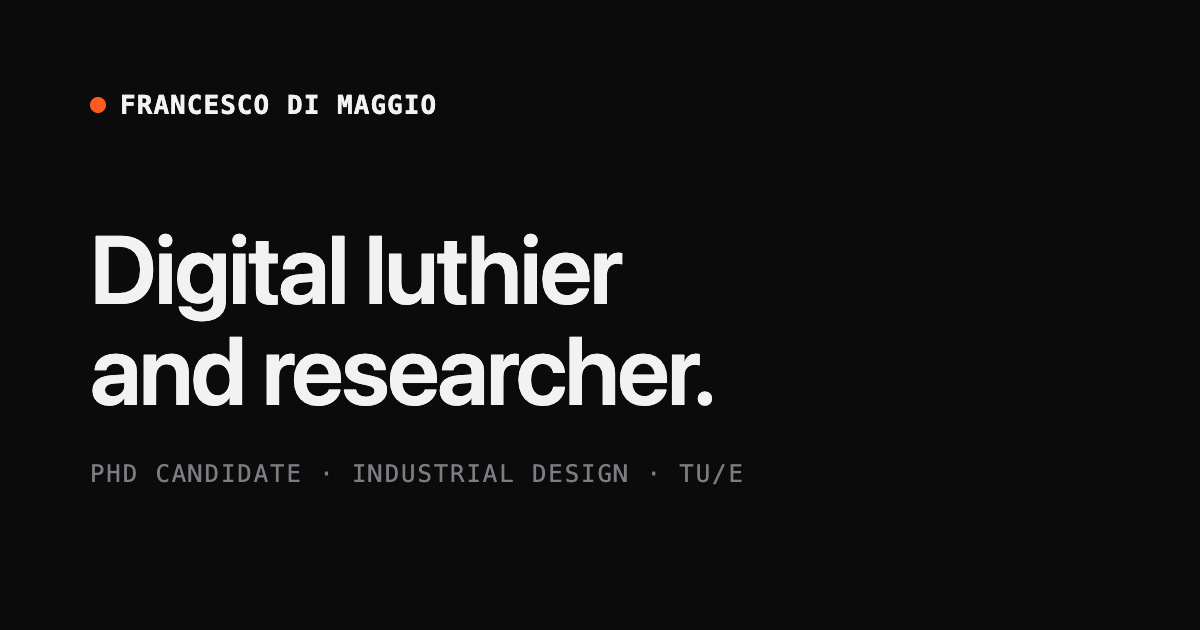
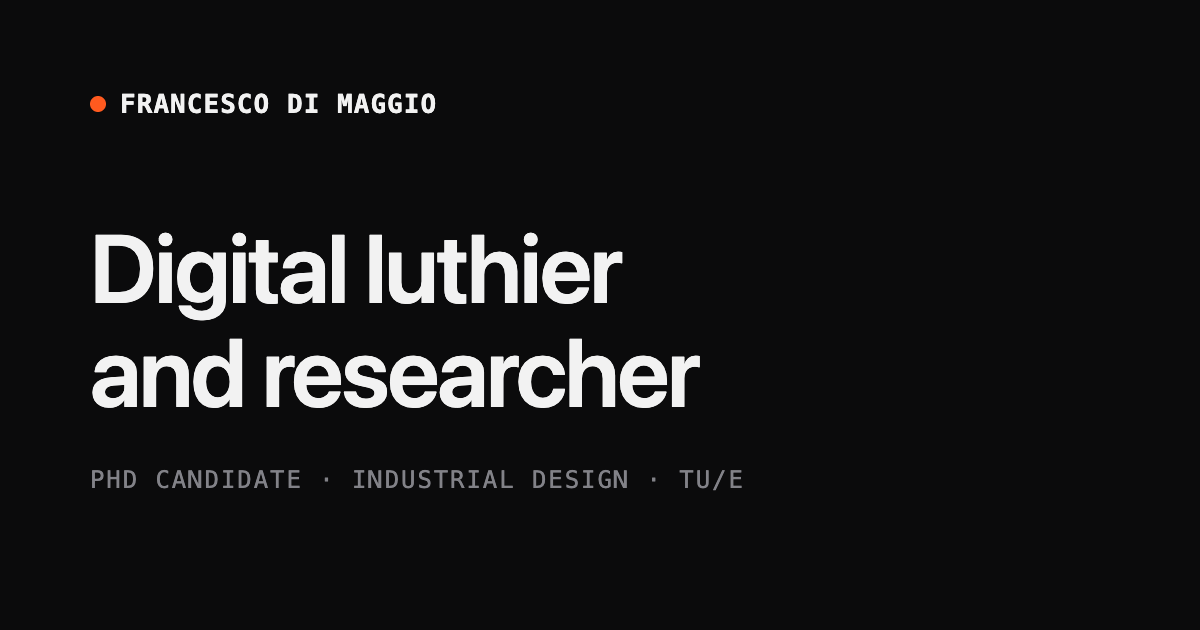
Publications from tsost as one source; list rules, contrast and footer shared with tsost
- PhD papers fetched at build from tsost/publications.json; earlier papers stay in publications.yaml
- Publications grouped by year, one list row per paper, → opens the paper; equal-contribution note as a caption; venues in one format
- Works grouped as Current / Earlier; 4 px between lines in rows, tiles and pager
- Grey text darker in light mode, lighter in dark mode (WCAG AA); short-screen rules removed
- Header dot breathes like the TSOST ripple, still with reduced motion; share image without the full stop
- Footer icons LinkedIn, GitHub, Email with larger tap areas; decorative arrows hidden from screen readers

diff --git a/src/styles/site.css b/src/styles/site.css
@@ -20,7 +20,10 @@ a:hover { text-decoration-color: var(--ink); }
 
 header { display: flex; align-items: center; justify-content: space-between; gap: 12px; height: 28px; }
 .mark { display: flex; align-items: center; gap: 8px; font: 600 13px var(--mono); letter-spacing: 0.04em; text-decoration: none; text-transform: uppercase; white-space: nowrap; }
-.mark::before { content: ""; width: 8px; height: 8px; border-radius: 50%; background: var(--accent); }
+.mark::before { content: ""; width: 8px; height: 8px; border-radius: 50%; background: var(--accent); animation: breathe 3s ease-in-out infinite; }
+/* The dot breathes like the TSOST ripple; still when the visitor asks for less motion. */
+@keyframes breathe { 50% { transform: scale(1.2); opacity: 0.4; } }
+@media (prefers-reduced-motion: reduce) { .mark::before { animation: none; } }
 .end { display: flex; align-items: center; gap: 2px; }
 /* 28 px high in the layout, as on tsost; the tap area reaches 4 px above and below. */
 .icon, #theme { flex: none; width: 32px; height: 36px; margin: -4px 0; display: flex; align-items: center; justify-content: center;
@@ -72,7 +75,7 @@ a.panel:active { opacity: 0.8; }
 a.panel .label { display: block; color: var(--ink); }
 /* Accent only for what is on: current work. */
 a.panel.on .label::before { content: ""; display: inline-block; width: 6px; height: 6px; margin: 0 8px 1px 0; border-radius: 50%; background: var(--accent); }
-a.panel .title { display: block; margin: 2px 0; font-size: 16px; line-height: 22px; font-weight: 600; }
+a.panel .title { display: block; margin: 4px 0; font-size: 16px; line-height: 22px; font-weight: 600; }
 .prose.body { margin-top: 10px; }
 .caption { display: block; font-size: 15px; line-height: 20px; color: var(--dim); }
 .arrow { font: 400 18px/20px var(--mono); color: var(--dim); }
@@ -80,7 +83,7 @@ a.panel .title { display: block; margin: 2px 0; font-size: 16px; line-height: 22
 .list { margin: 0; padding: 0; list-style: none; }
 .list li + li { border-top: 1px solid var(--line); }
 .list .row { display: flex; justify-content: space-between; align-items: center; gap: 16px; min-height: 60px; padding: 12px 0; text-decoration: none; }
-.list .text { flex: 1; display: flex; flex-direction: column; gap: 2px; min-width: 0; }
+.list .text { flex: 1; display: flex; flex-direction: column; gap: 4px; min-width: 0; }
 .list b { font-size: 15px; line-height: 20px; font-weight: 600; text-wrap: balance; }
 .list .sub { font-size: 14px; line-height: 18px; color: var(--dim); }
 .list a.row:hover b { text-decoration: underline; text-decoration-color: var(--dim); text-underline-offset: 3px; }
@@ -97,13 +100,9 @@ a.panel .title { display: block; margin: 2px 0; font-size: 16px; line-height: 22
 .meta dt { margin: 0; }
 .meta dd { margin: 0; overflow-wrap: anywhere; }
 
-/* Publications: the citation is the row; links sit under it. */
-.cite { display: flex; flex-direction: column; gap: 4px; padding: 12px 0; font-size: 15px; line-height: 20px; }
-.cite .sub { font-size: 14px; line-height: 18px; color: var(--dim); }
-.cite .links { display: flex; flex-wrap: wrap; gap: 4px 14px; margin-top: 2px; }
-.cite .links a { text-decoration: none; }
-.cite .links a:hover { color: var(--ink); }
-.cite .award { color: var(--ink); }
+/* Publications: your name in bold; an award as its own line. */
+.list .sub strong { font-weight: 600; color: var(--ink); }
+.list .award { color: var(--ink); }
 
 /* Work images: a grid of equal crops; each opens full size. One image keeps its own proportions, up to a limit. */
 .gallery { display: grid; grid-template-columns: 1fr 1fr; gap: 10px; }
@@ -118,7 +117,7 @@ footer { display: flex; justify-content: space-between; gap: 12px; margin-top: m
 footer a { text-decoration: none; }
 footer a:hover { color: var(--ink); }
 footer .links { display: flex; align-items: center; gap: 14px; }
-footer .links a { display: flex; color: var(--dim); }
+footer .links a { display: flex; padding: 7px; margin: -7px; color: var(--dim); }
 footer .links svg { width: 14px; height: 14px; }
 
 /* CV groups: one row that opens to its dates. */
@@ -132,11 +131,10 @@ footer .links svg { width: 14px; height: 14px; }
 
 /* Previous and next work. */
 .pager { display: flex; justify-content: space-between; gap: 16px; margin-top: min(16px, 2vh); }
-.pager a { display: flex; flex-direction: column; gap: 2px; max-width: 48%; text-decoration: none; }
+.pager a { display: flex; flex-direction: column; gap: 4px; max-width: 48%; text-decoration: none; }
 .pager a:last-child { margin-left: auto; text-align: right; }
 .pager b { font-size: 15px; line-height: 20px; font-weight: 600; }
 .pager a:hover b { text-decoration: underline; text-decoration-color: var(--dim); text-underline-offset: 3px; }
-.cite strong { font-weight: 600; color: var(--ink); }
 
 #pdf { margin-left: 8px; padding: 0; border: 0; background: none; color: var(--ink); cursor: pointer; }
 #pdf:hover { text-decoration: underline; text-underline-offset: 3px; }
@@ -151,7 +149,6 @@ footer .links svg { width: 14px; height: 14px; }
   header, nav, footer, #search, #pdf, .toggle, .pager { display: none !important; }
   .print-only { display: block; }
   .screen-only { display: none !important; }
-  .cite .links a { display: none; }
   h1 { font-size: 20pt; }
   .lead { font-size: 10pt; }
   .panel { border: 0; padding: 0; border-radius: 0; box-shadow: none; }
@@ -161,18 +158,4 @@ footer .links svg { width: 14px; height: 14px; }
   h2.label { margin-top: 5mm; break-after: avoid; }
   a { text-decoration: none; }
   .group > .list { margin: 0 0 4px; }
-}
-
-/* Short screens: tighter spacing so Home fits without scrolling. */
-@media (max-height: 700px) {
-  .home h2.label { display: none; }
-  nav { margin-bottom: 8px; }
-  h1 { font-size: 26px; }
-  .lead { font-size: 15px; line-height: 1.4; }
-  .prose p { font-size: 15px; line-height: 1.5; }
-  footer { margin-top: 10px; }
-}
-@media (max-height: 600px) {
-  body { gap: 8px; }
-  .panel { padding-block: 12px; }
 }

diff --git a/src/content.config.ts b/src/content.config.ts
@@ -20,23 +20,33 @@ const works = defineCollection({
   }),
 });
 
-// `equal`: how many of the first authors contributed equally. `tsost`: the id of the entry on the tsost site.
-const publications = defineCollection({
-  loader: file("src/data/publications.yaml"),
-  schema: z.object({
-    title: z.string(),
-    authors: z.array(z.string()),
-    equal: z.number().optional(),
-    year: z.number(),
-    date: z.coerce.date().optional(),
-    venue: z.string(),
-    kind: z.string(),
-    status: z.string().optional(),
-    award: z.string().optional(),
-    doi: z.string().optional(),
-    url: z.url().optional(),
-    tsost: z.string().optional(),
-  }),
+// Publications: earlier papers here, PhD papers from tsost (one source; edit them there).
+// `equal`: how many of the first authors contributed equally.
+const publication = z.object({
+  title: z.string(),
+  authors: z.array(z.string()),
+  equal: z.number().optional(),
+  year: z.number(),
+  date: z.coerce.date().optional(),
+  venue: z.string(),
+  kind: z.string(),
+  status: z.string().optional(),
+  award: z.string().optional(),
+  doi: z.string().optional(),
+  url: z.url().optional(),
+});
+
+const publications = defineCollection({ loader: file("src/data/publications.yaml"), schema: publication });
+
+// TSOST_URL points the build at a local tsost for testing.
+const tsost = process.env.TSOST_URL ?? "https://francesco-di-maggio.github.io/tsost";
+const phd = defineCollection({
+  loader: async () => {
+    const res = await fetch(`${tsost}/publications.json`);
+    if (!res.ok) throw new Error(`tsost publications: ${res.status} ${res.url}`);
+    return res.json();
+  },
+  schema: publication,
 });
 
 const cv = defineCollection({
@@ -51,4 +61,4 @@ const cv = defineCollection({
   }),
 });
 
-export const collections = { works, publications, cv };
+export const collections = { works, publications, phd, cv };

diff --git a/src/styles/tokens.css b/src/styles/tokens.css
@@ -1,5 +1,5 @@
 :root {
-  --bg: #f2f2f0; --surface: #ffffff; --ink: #111111; --dim: #8b8b88; --line: #e3e3df;
+  --bg: #f2f2f0; --surface: #ffffff; --ink: #111111; --dim: #6d6d6a; --line: #e3e3df;
   --accent: #ff5a1f; --ok: #22b35e; --err: #e5484d;
   --sans: -apple-system, BlinkMacSystemFont, "Inter", system-ui, sans-serif;
   --mono: ui-monospace, "SF Mono", Menlo, monospace;
@@ -7,7 +7,7 @@
   color-scheme: light dark;
 }
 @media (prefers-color-scheme: dark) {
-  :root:not([data-theme="light"]) { --bg: #0b0b0c; --surface: #161618; --ink: #f2f2f2; --dim: #7c7c82; --line: #26262a; }
+  :root:not([data-theme="light"]) { --bg: #0b0b0c; --surface: #161618; --ink: #f2f2f2; --dim: #828288; --line: #26262a; }
 }
 :root[data-theme="light"] { color-scheme: light; }
-:root[data-theme="dark"] { color-scheme: dark; --bg: #0b0b0c; --surface: #161618; --ink: #f2f2f2; --dim: #7c7c82; --line: #26262a; }
+:root[data-theme="dark"] { color-scheme: dark; --bg: #0b0b0c; --surface: #161618; --ink: #f2f2f2; --dim: #828288; --line: #26262a; }

diff --git a/src/publications.ts b/src/publications.ts
@@ -1,9 +1,9 @@
 import { getCollection, type CollectionEntry } from "astro:content";
 
-export type Pub = CollectionEntry<"publications">;
+export type Pub = CollectionEntry<"publications" | "phd">;
 
-// Newest first; entries without a date go last within their year.
+// All publications, newest first; entries without a date go last within their year.
 export async function publications() {
   const time = (p: Pub) => p.data.date?.getTime() ?? 0;
-  return (await getCollection("publications")).sort((a, b) => b.data.year - a.data.year || time(b) - time(a));
+  return [...(await getCollection("publications")), ...(await getCollection("phd"))].sort((a, b) => b.data.year - a.data.year || time(b) - time(a));
 }

diff --git a/src/pages/search.json.ts b/src/pages/search.json.ts
@@ -1,5 +1,6 @@
 import { getCollection } from "astro:content";
 import { url } from "../url";
+import { publications as all } from "../publications";
 
 // One entry per work, publication and CV line. `find` is what the search matches; it is not shown.
 export async function GET() {
@@ -10,7 +11,7 @@ export async function GET() {
     href: url(`works/${w.id}/`),
     find: [w.data.title, w.data.summary, w.data.role, w.data.with, w.body].join(" "),
   }));
-  const publications = (await getCollection("publications")).map((p) => ({
+  const publications = (await all()).map((p) => ({
     type: "Publication",
     title: p.data.title,
     text: `${p.data.venue} · ${p.data.kind}`,
